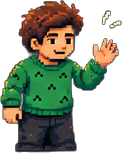
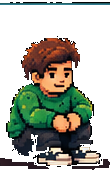
Restore Nachito full-body sprite with legs and feet.
Rebuild his sheet from complete source frames instead of waist crops.

diff --git a/index.html b/index.html
@@ -7,7 +7,7 @@
     <link rel="preconnect" href="https://fonts.googleapis.com" />
     <link rel="preconnect" href="https://fonts.gstatic.com" crossorigin />
     <link href="https://fonts.googleapis.com/css2?family=Press+Start+2P&display=swap" rel="stylesheet" />
-    <link rel="stylesheet" href="css/game.css?v=56" />
+    <link rel="stylesheet" href="css/game.css?v=57" />
   </head>
   <body>
     <div id="app">
@@ -22,8 +22,8 @@
         <button type="button" id="talk">Hablar</button>
       </div>
     </div>
-    <script src="js/config.js?v=56"></script>
-    <script src="js/data.js?v=56"></script>
-    <script src="js/game.js?v=56"></script>
+    <script src="js/config.js?v=57"></script>
+    <script src="js/data.js?v=57"></script>
+    <script src="js/game.js?v=57"></script>
   </body>
 </html>

diff --git a/js/data.js b/js/data.js
@@ -428,15 +428,14 @@ const MAPS = {
         name: "Nachito Saralegui",
         dir: "down",
         visible: true,
-        portrait: "assets/nachito-walk.png?v=56",
+        portrait: "assets/nachito-walk.png?v=57",
         sheet: {
-          cellW: 82,
-          cellH: 188,
+          cellW: 140,
+          cellH: 205,
           idle: 0,
           walk: [0, 0, 0, 0],
           foot: 2,
-          // Match band member on-screen bulk (sheet is narrower than musicians).
-          scale: WORLD_PX / 110,
+          scale: WORLD_PX / 205,
           dirs: { down: 0, right: 1, up: 2, left: 3 },
         },
         lines: [
